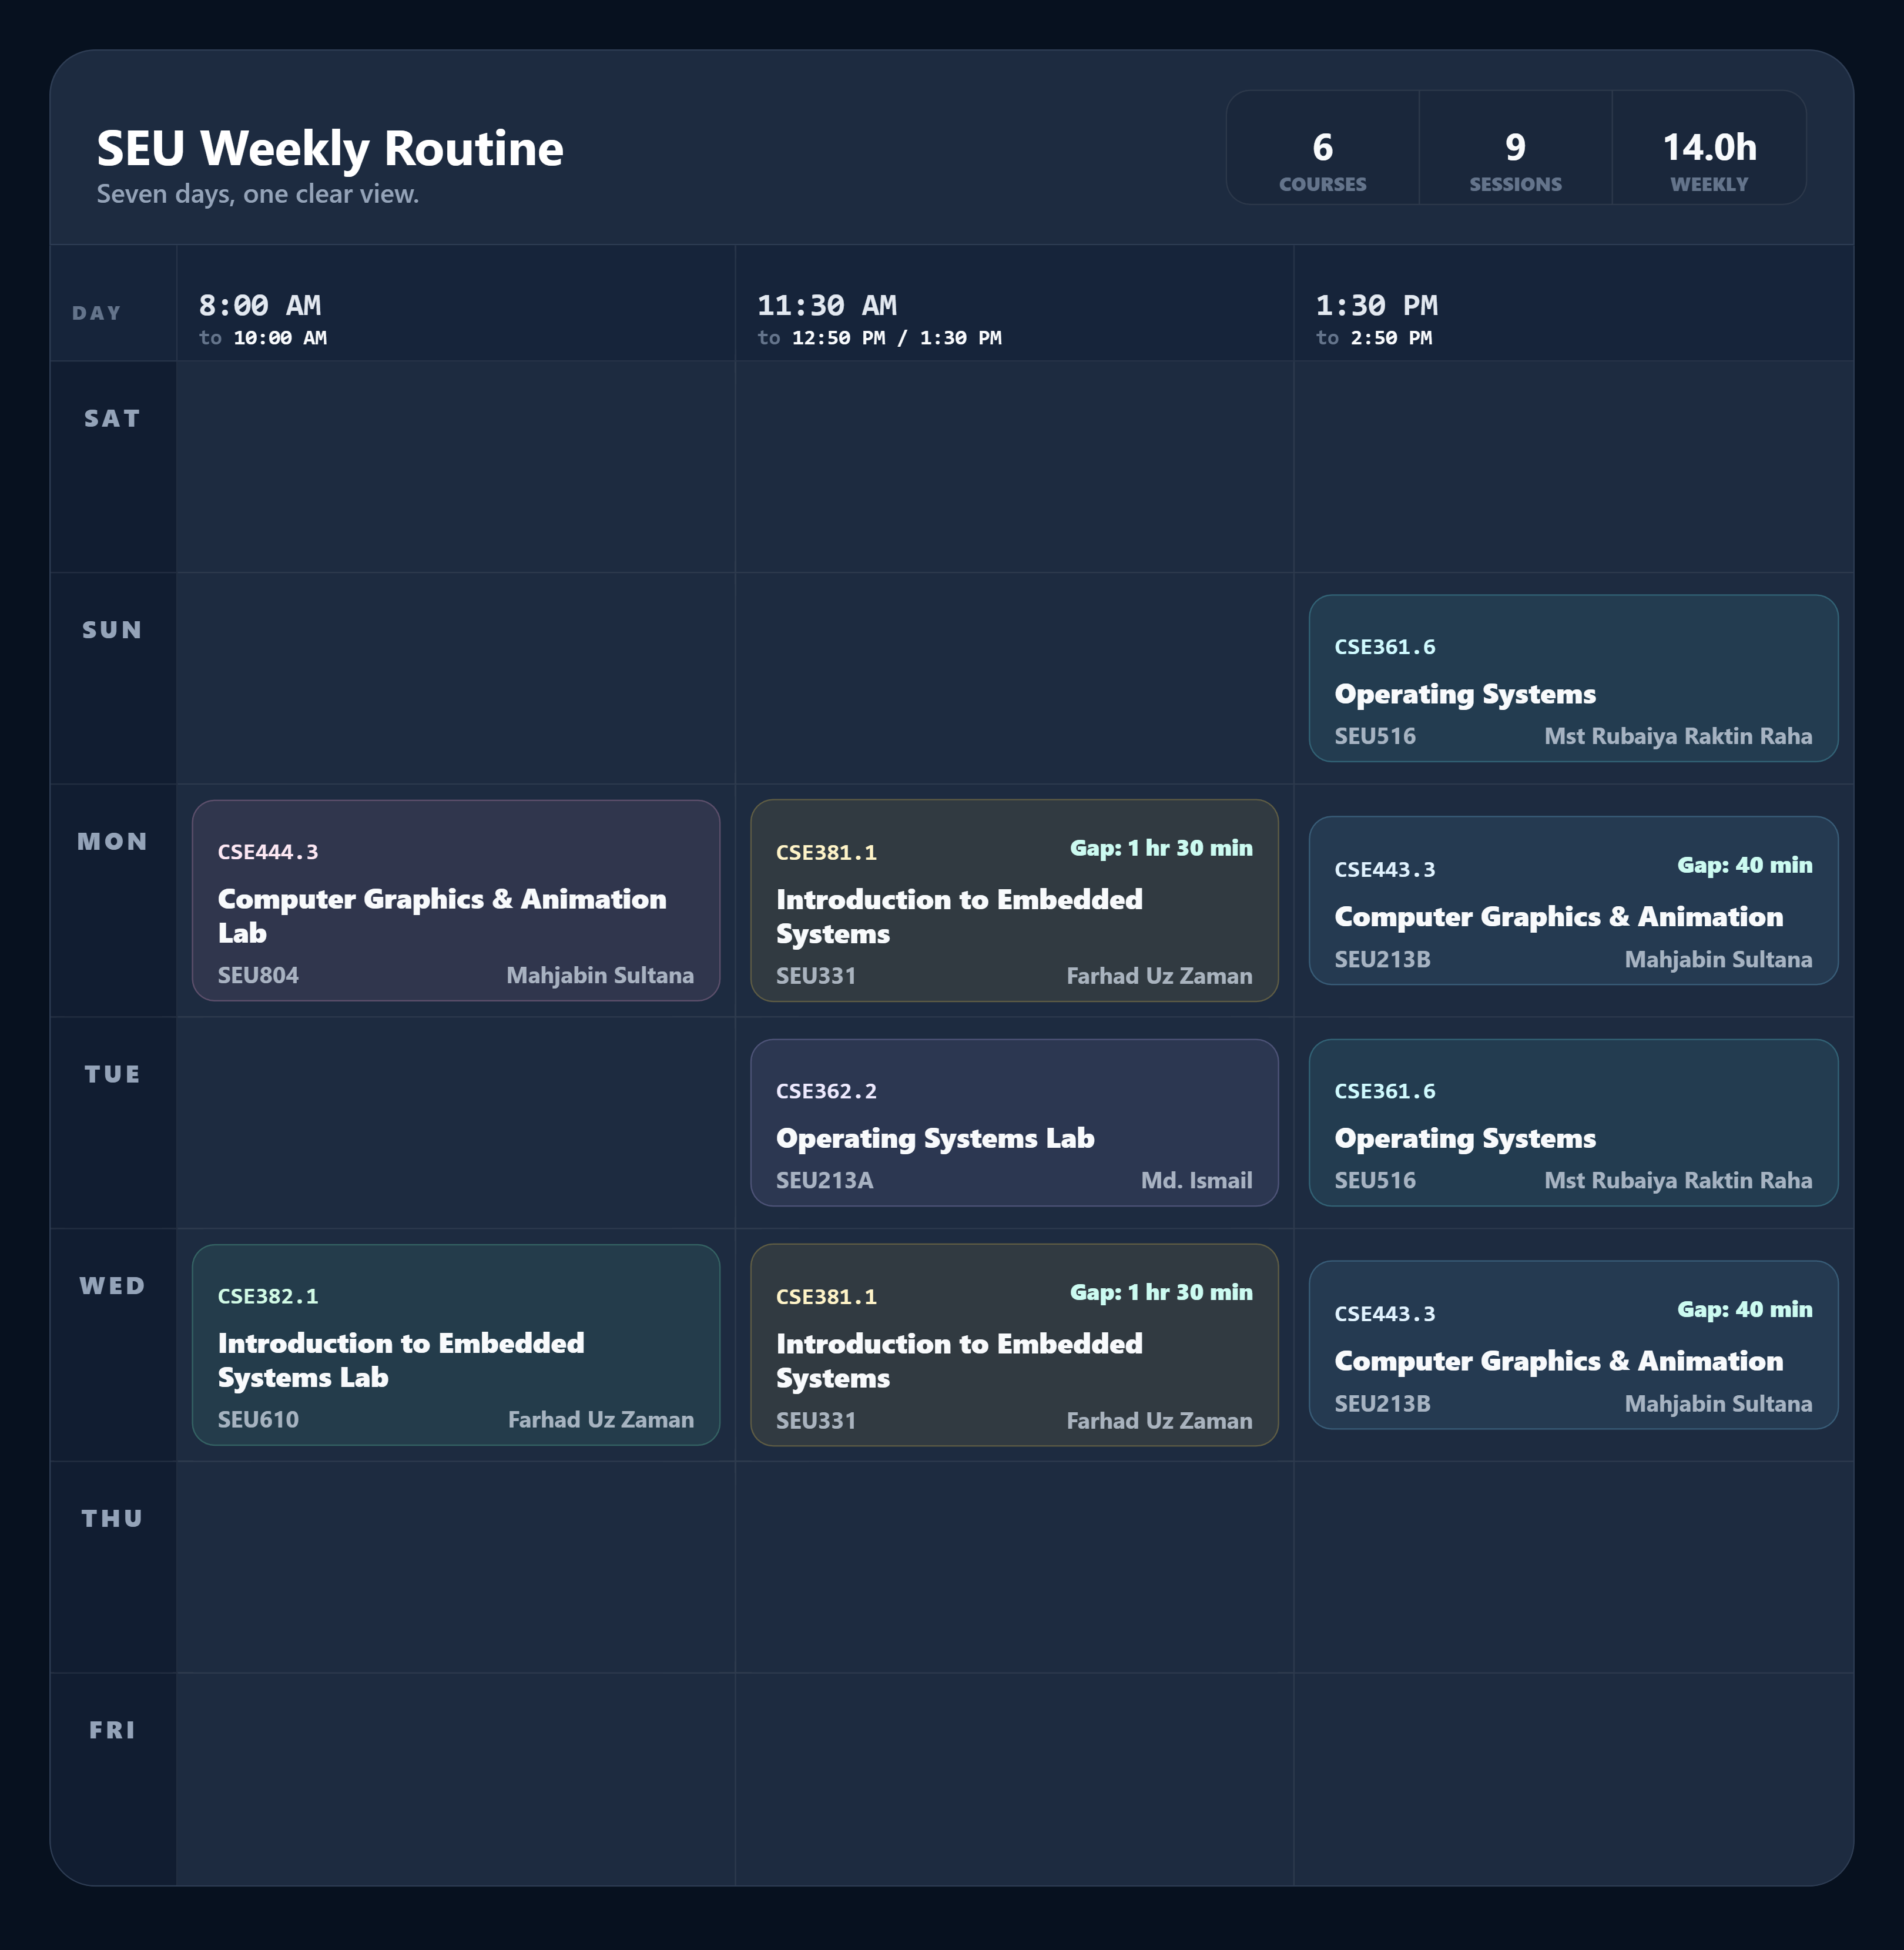
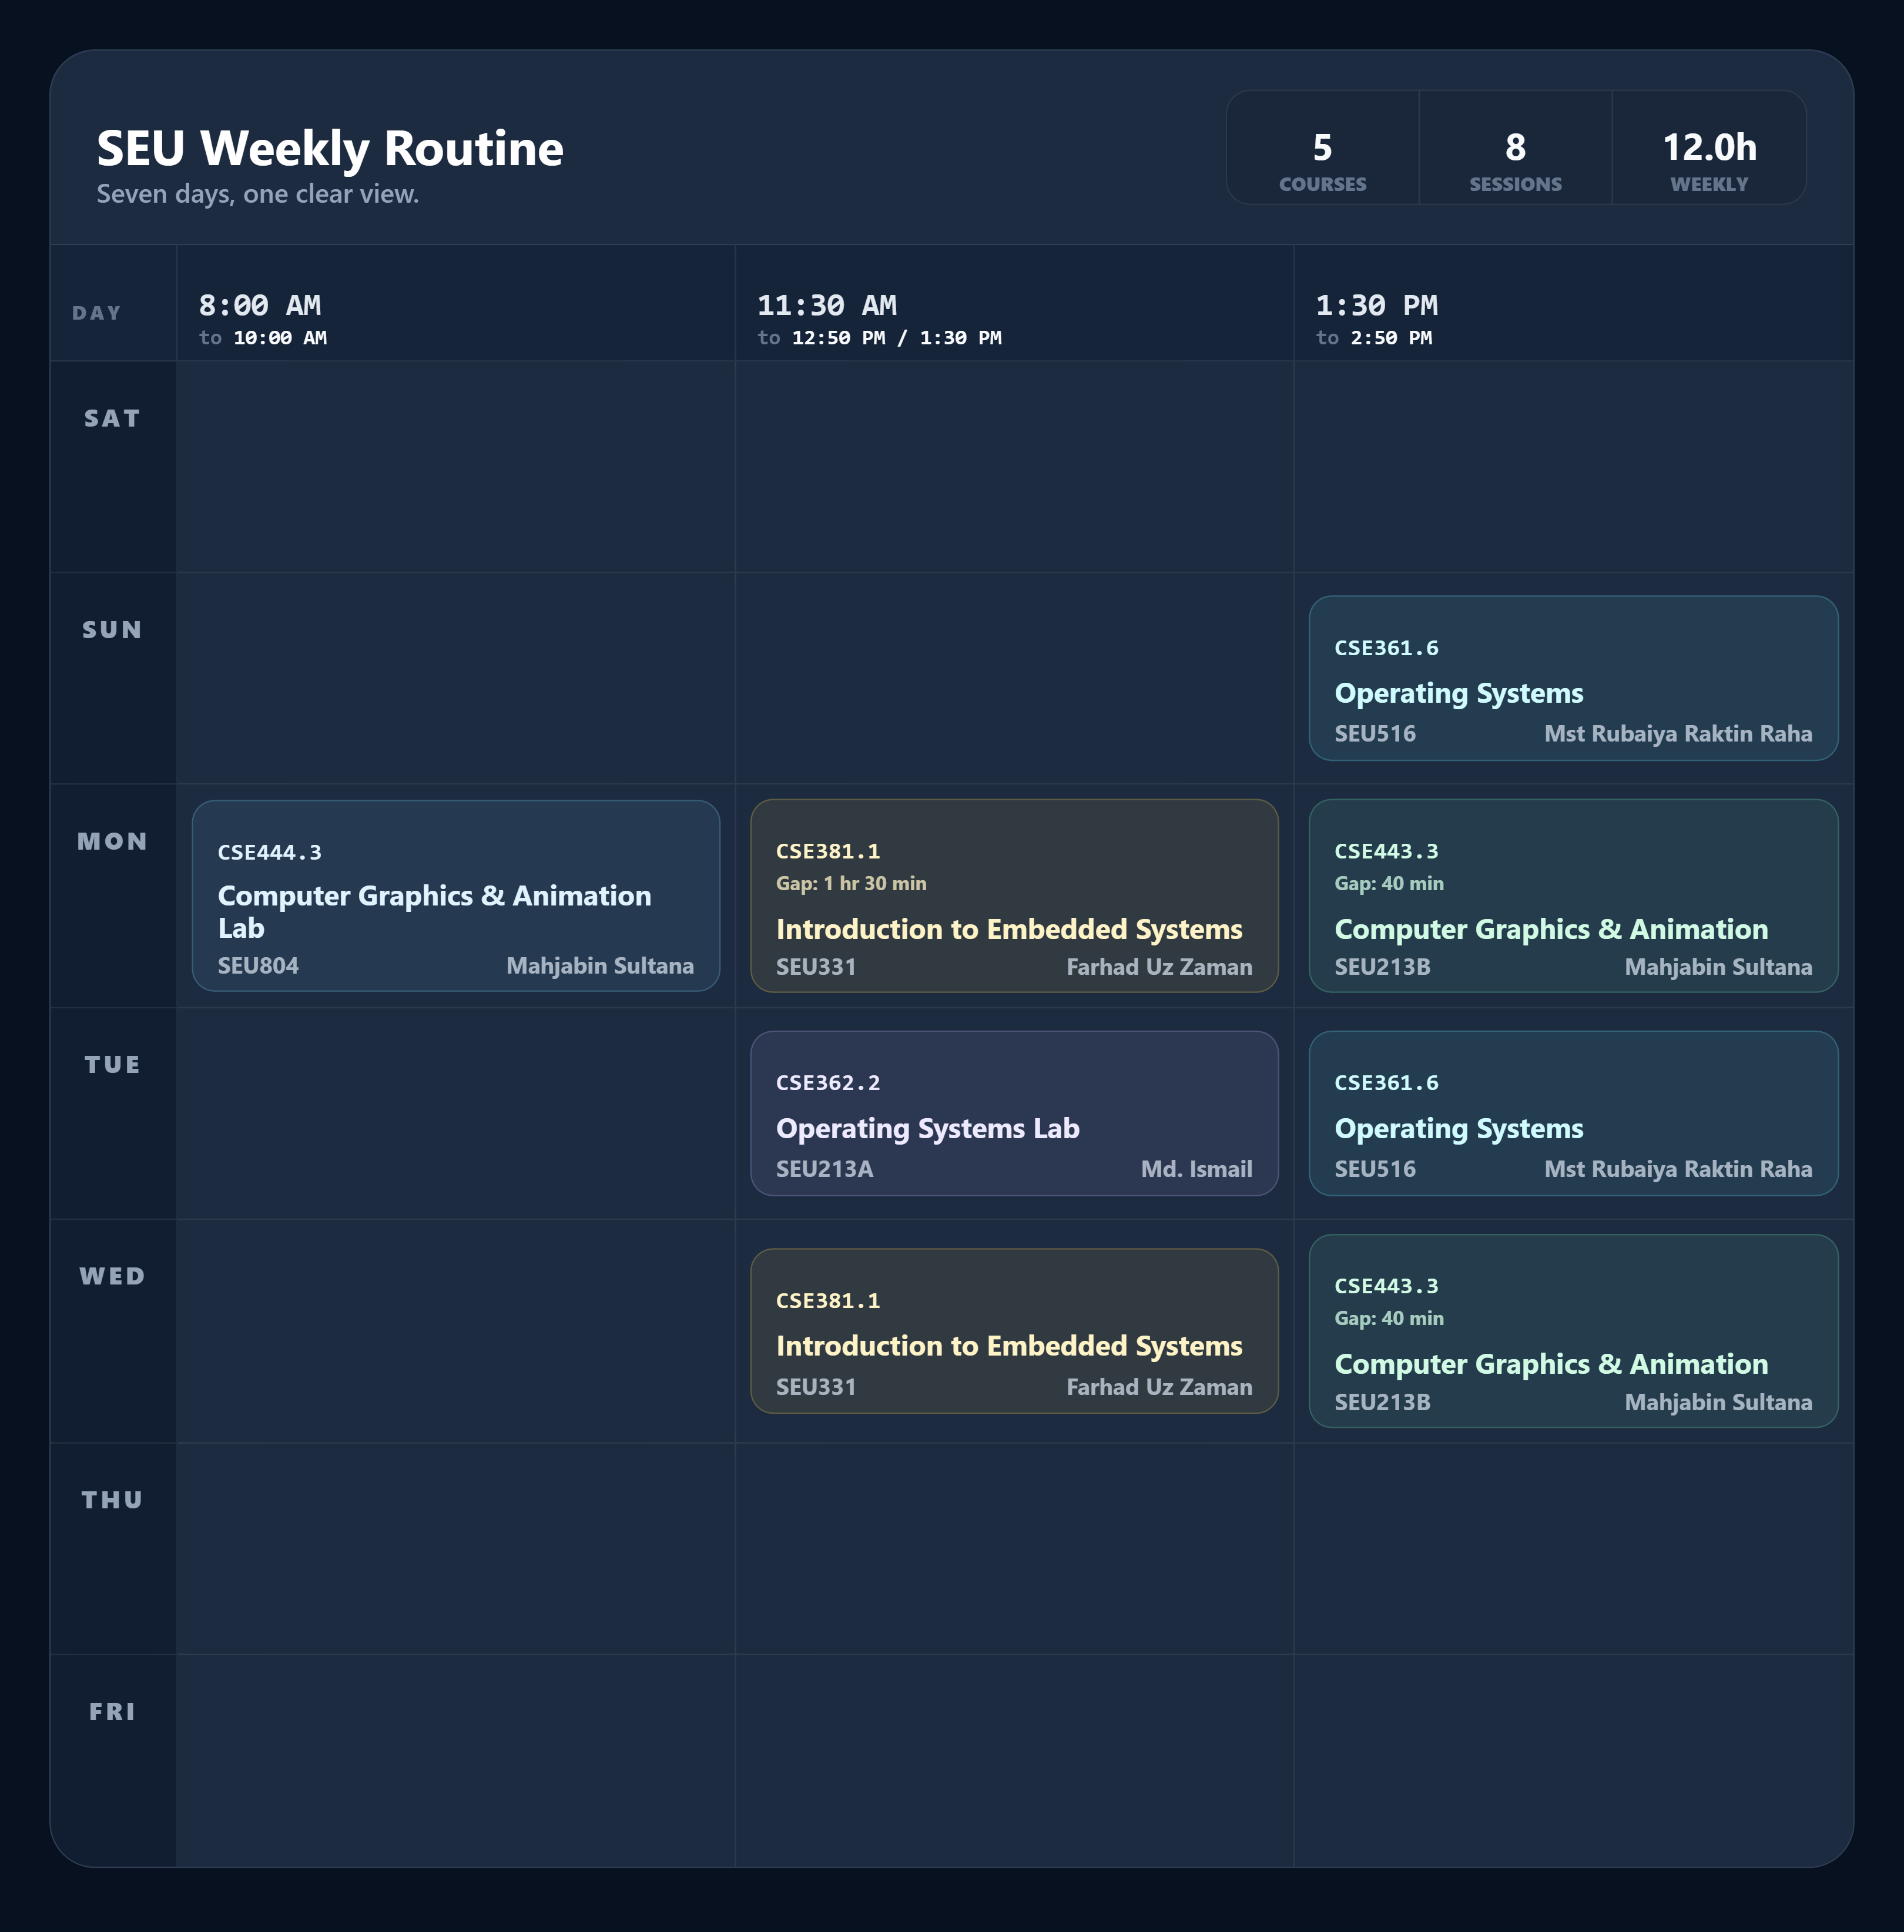
update design of routine PNG

diff --git a/src/index.css b/src/index.css
@@ -812,7 +812,7 @@ textarea:focus-visible {
 
 .mobile-table-routine-card {
   display: grid;
-  gap: 9px;
+  gap: 7px;
   min-height: 94px;
   padding: 13px 14px;
   border: 1px solid rgba(103, 232, 249, .22);
@@ -851,8 +851,7 @@ textarea:focus-visible {
   color: #fce7f3;
 }
 
-.mobile-table-routine-card-top,
-.mobile-table-routine-card-meta {
+.mobile-table-routine-card-top {
   display: flex;
   align-items: baseline;
   justify-content: space-between;
@@ -860,34 +859,39 @@ textarea:focus-visible {
   min-width: 0;
 }
 
-.mobile-table-routine-card-top p,
-.mobile-table-routine-card-top span {
+.mobile-table-routine-card-top p {
   margin: 0;
   font-size: 13px;
-  font-weight: 850;
+  font-weight: 800;
+  letter-spacing: .02em;
   line-height: 1.2;
-}
-
-.mobile-table-routine-card-top p {
   font-family: ui-monospace, SFMono-Regular, Menlo, Monaco, Consolas, "Liberation Mono", monospace;
 }
 
-.mobile-table-routine-card-top span {
-  flex-shrink: 0;
-  color: #ccfbf1;
-  text-align: right;
+.mobile-table-routine-gap {
+  margin: 0;
+  color: currentColor;
+  font-size: 11px;
+  font-weight: 750;
+  line-height: 1.15;
+  opacity: .75;
 }
 
-.mobile-table-routine-card h3 {
+.mobile-table-routine-title {
   margin: 0;
-  color: #f8fafc;
+  color: inherit;
   font-size: 16px;
-  font-weight: 850;
-  line-height: 1.2;
-  overflow-wrap: anywhere;
+  font-weight: 700;
+  line-height: 1.15;
+  overflow-wrap: normal;
 }
 
 .mobile-table-routine-card-meta {
+  display: flex;
+  align-items: center;
+  justify-content: space-between;
+  gap: 8px;
+  min-width: 0;
   color: rgba(203, 213, 225, .78);
   font-size: 13px;
   font-weight: 700;

diff --git a/src/App.jsx b/src/App.jsx
@@ -303,9 +303,11 @@ const MobileTableRoutineExport = forwardRef(function MobileTableRoutineExport(
                         >
                           <div className="mobile-table-routine-card-top">
                             {courseCode && <p>{courseCode}</p>}
-                            {entry.gap && <span>Gap: {formatGapDuration(entry.gap.minutes)}</span>}
                           </div>
-                          {courseTitle && <h3>{courseTitle}</h3>}
+                          {entry.gap && (
+                            <p className="mobile-table-routine-gap">Gap: {formatGapDuration(entry.gap.minutes)}</p>
+                          )}
+                          {courseTitle && <p className="mobile-table-routine-title">{courseTitle}</p>}
                           <div className="mobile-table-routine-card-meta">
                             {entry.room && <span>{entry.room}</span>}
                             {teacher && <span>{teacher}</span>}